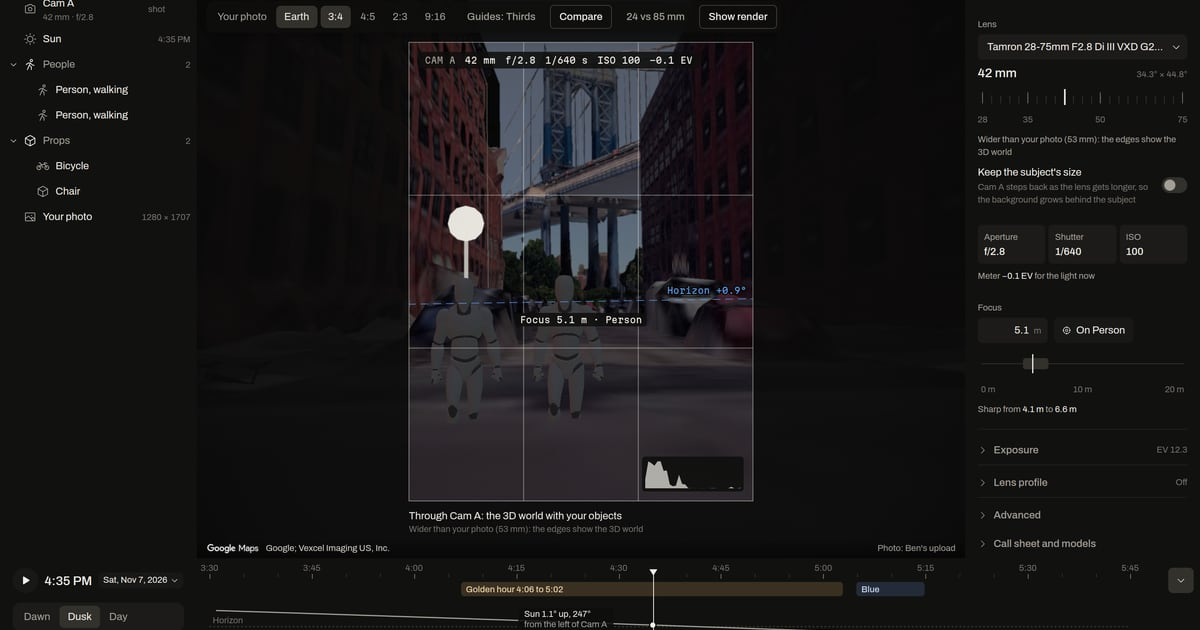
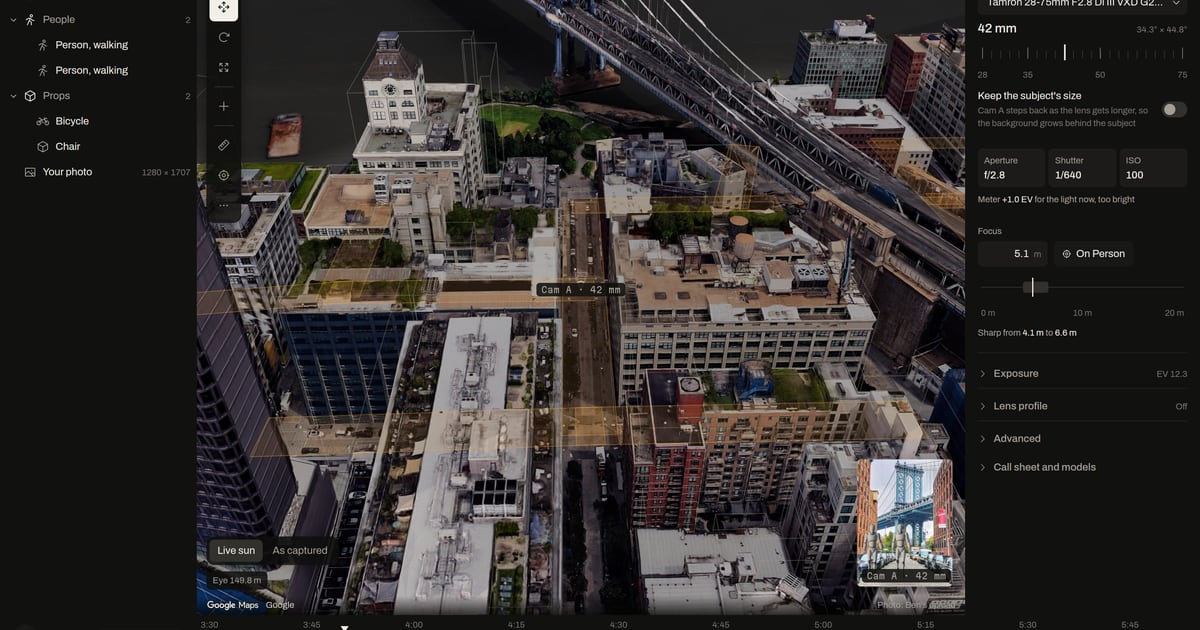
Headline images in Studio's World view on Earth (Ben's reference): the landing's time scrub (9 frames, golden hour to dusk on the 3D city), Devpost 1, og.jpg (crop keeps the Google credit), a 1920x1080 Devpost thumbnail, and the SpacetimeDB, Design and Vultr heroes; alt texts and captions follow

diff --git a/site/src/tracks/design.ts b/site/src/tracks/design.ts
@@ -25,8 +25,8 @@ export default {
   note: 'The Figma images on this page are design mockups and are labelled as such. Every other image is a screenshot of the live app.',
   hero: {
     img: hero,
-    alt: 'Tessera Studio looking through Cam A on the demo shoot, with the Google Photorealistic 3D Tiles of Washington St as the backplate: two placed figures, a thirds grid, the focus label on a person, the horizon label in the right margin, and the camera inspector with a Tamron 28-75mm lens at 42 mm, f/2.8.',
-    caption: 'Studio, built from the Darkroom direction: looking through the shot camera with a real lens, focus on a person, and every label kept clear of the picture.',
+    alt: 'Tessera Studio in World view on the demo shoot: the Google Photorealistic 3D Tiles of DUMBO from above, Cam A and its frustum on Washington St under the Manhattan Bridge, the photo in the corner, and the camera inspector with a Tamron 28-75mm lens at 42 mm, f/2.8.',
+    caption: 'Studio, built from the Darkroom direction: the World view over Google\'s 3D city, with the shot camera on the street and the photo in the corner.',
     frame: 'browser',
     url: 'app.tesseraphoto.com/studio/A9TVAN',
   },

diff --git a/site/src/tracks/spacetime.ts b/site/src/tracks/spacetime.ts
@@ -13,7 +13,7 @@ export default {
   oneLine: 'The whole shared set is one SpacetimeDB module: every person, prop, light and camera is a row that browsers, phones, our GPU worker and the text bridge edit together, live.',
   hero: {
     img: hero,
-    alt: 'Studio looking through Cam A at 4:35 PM over the Google Photorealistic 3D Tiles of Washington St, with two placed people, the scene outline listing Cam A, the sun, two people, a bicycle and a chair, and the camera inspector',
+    alt: 'Studio in World view over the Google Photorealistic 3D Tiles of DUMBO, Cam A and its frustum on Washington St under the Manhattan Bridge and the photo in the corner, with two placed people, the scene outline listing Cam A, the sun, two people, a bicycle and a chair, and the camera inspector',
     caption: 'Studio on production. Cam A, the sun, the two people, the bicycle and the chair in the outline are rows in SpacetimeDB; everyone in the shoot sees them change within a network round trip.',
     frame: 'browser',
     url: 'app.tesseraphoto.com/studio/A9TVAN',

diff --git a/site/src/tracks/vultr.ts b/site/src/tracks/vultr.ts
@@ -13,7 +13,7 @@ export default {
   oneLine: 'Tessera runs in production on Vultr: one VM in Dallas serves the app and this site, Vultr Object Storage keeps the photos and props, and Vultr Serverless Inference runs four models in the pipeline.',
   hero: {
     img: hero,
-    alt: 'Tessera Studio on the production URL: the Clay + photo world of Washington St with the user\'s photo projected onto clay buildings, two placed figures, a bicycle, the Cam A frustum, and the camera inspector on the right.',
+    alt: 'Tessera Studio on the production URL in World view: the Google Photorealistic 3D Tiles of DUMBO from above, Cam A and its frustum on Washington St under the Manhattan Bridge, the photo in the corner, and the camera inspector on the right.',
     caption: 'Studio on the production URL, served by Caddy and the crew on the Vultr VM in Dallas.',
     frame: 'browser',
     url: 'app.tesseraphoto.com/studio/A9TVAN',

diff --git a/README.md b/README.md
@@ -2,7 +2,7 @@
 
 Stand where the photo was taken, then make the shot yours. Drop a photo of a place and Tessera finds where the photographer stood, which way they faced and what lens they used, rebuilds the place as a 3D set, and your group plans its own version there together: in a browser, in a Telegram chat or by phone. Built at HackUTD 2026.
 
-![Studio looking through the solved camera, Cam A, over the Google Photorealistic 3D Tiles of Washington St: two placed people, a 42 mm lens at f/2.8 focused on a person, and the golden hour band on the timeline](site/public/devpost/1-studio-camera.jpg)
+![Studio in World view over the Google Photorealistic 3D Tiles of DUMBO: the solved camera, Cam A, and its frustum on Washington St under the Manhattan Bridge, the photo in the corner, and the camera inspector](site/public/devpost/1-studio-camera.jpg)
 
 - **Try it:** the demo shoot at the Manhattan Bridge view in DUMBO, in [Simple](https://app.tesseraphoto.com/p/A9TVAN) or in [Studio](https://app.tesseraphoto.com/studio/A9TVAN)
 - **Site and docs:** https://tesseraphoto.com

diff --git a/DEVPOST.md b/DEVPOST.md
@@ -26,7 +26,7 @@ under "Video": https://tesseraphoto.com/tracks/
 All in `site/public/devpost/` and served at https://tesseraphoto.com/devpost/. The first is the thumbnail.
 Regenerate with `node site/scripts/devpost-images.mjs`.
 
-1. `1-studio-camera.jpg`. Caption: "Studio, looking through Cam A over Google's 3D city at the spot: two placed people, focus on a person, the horizon marked in the margin".
+1. `1-studio-camera.jpg`. Caption: "Studio's World view over Google's 3D city in DUMBO: Cam A on Washington St under the Manhattan Bridge, with the photo in the corner".
 2. `2-simple-found.jpg`. Caption: "Simple: where to stand, which way to face, and the lens as 2.2x on your iPhone".
 3. `3-render.jpg`. Caption: "Through Cam A beside a fresh AI render of the same two people, labelled AI interpretation, with Nemotron's physics check on the right".
 4. `4-phones.jpg`. Caption: "The four steps on a phone: drop, found it, make it yours, take me there".
